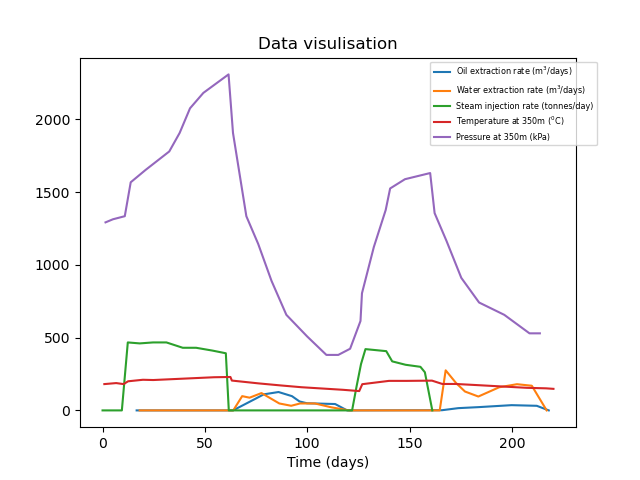
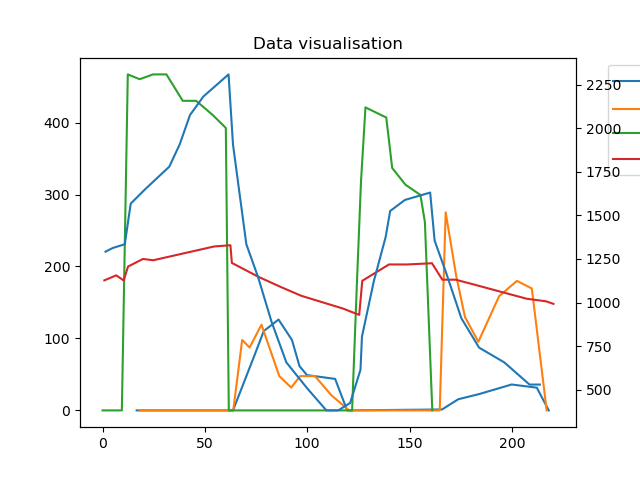
Modify data visualisation for the temperature

diff --git a/datavisualisation.py b/datavisualisation.py
@@ -6,6 +6,7 @@ params = {'mathtext.default': 'regular' }
 plt.rcParams.update(params)
 os.chdir("data")
 f, ax1 = plt.subplots(1, 1)
+ax2=ax1.twinx()
 time1=np.genfromtxt('tr_oil.txt',skip_header=True,delimiter=",",usecols=0)
 vol1=np.genfromtxt('tr_oil.txt',skip_header=True,delimiter=",",usecols=1)
 ax1.plot(time1,vol1,'-',label="Oil extraction rate ($m^{3}$/days)")
@@ -44,9 +45,10 @@ os.chdir("data")
 
 time=np.genfromtxt('tr_p.txt',skip_header=True,delimiter=",",usecols=0)
 pressure=np.genfromtxt('tr_p.txt',skip_header=True,delimiter=",",usecols=1)
-ax1.plot(time,pressure,'-',label="Pressure at 350m (kPa)")
-plt.title("Data visulisation")
+ax2.plot(time,pressure,'-k',label="Pressure at 350m (kPa)")
+ax2.set_ylabel('Pressure(kPa)')
+plt.title("Data visualisation")
 plt.xlabel("Time (days)")
-plt.legend(bbox_to_anchor=(1.05,1),fontsize='xx-small')
+ax1.legend()
 os.chdir("..")
-plt.savefig('data.png')
+plt.show()
